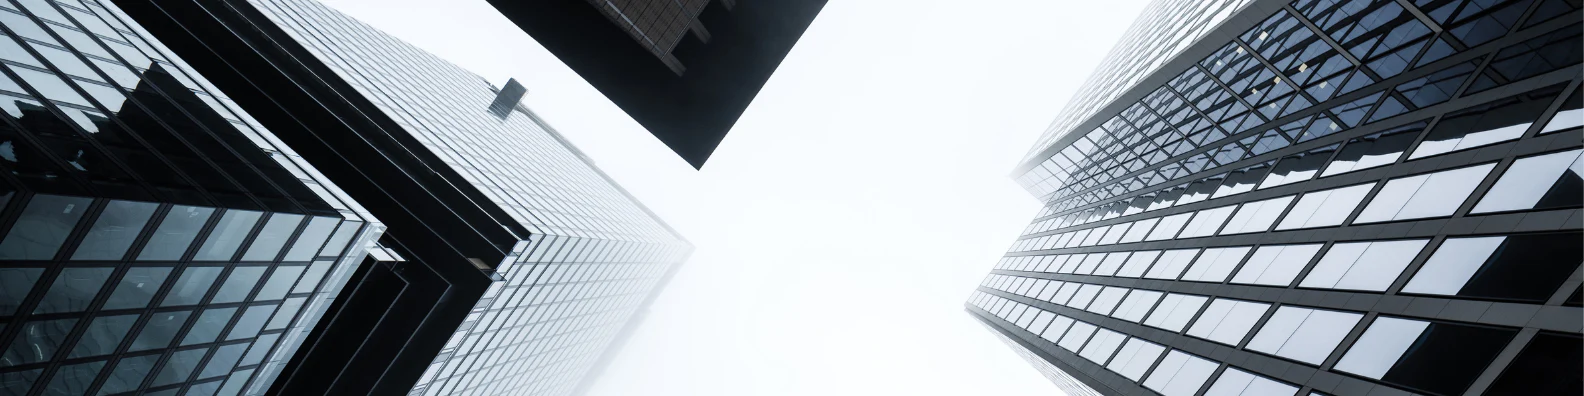
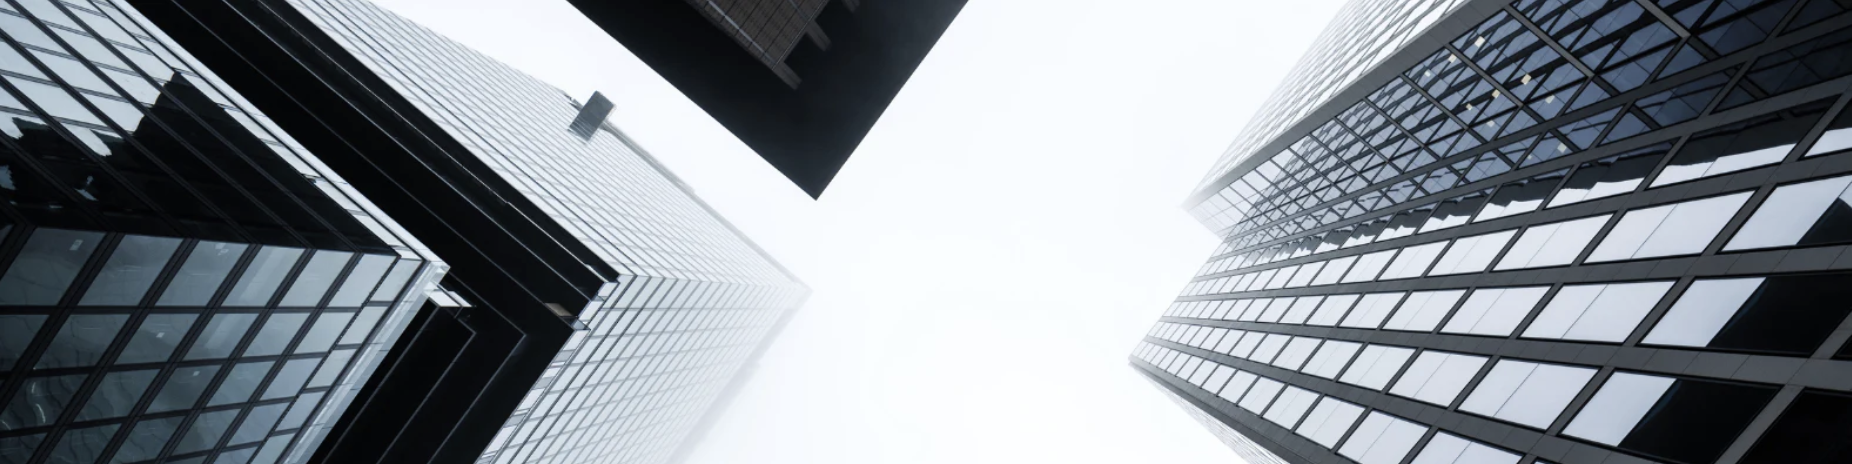
Changes

diff --git a/src/components/sections/Hero.tsx b/src/components/sections/Hero.tsx
@@ -1,7 +1,7 @@
 import { Button } from '@/components/ui/button';
 import { Link } from 'react-router-dom';
 import { ArrowRight } from 'lucide-react';
-import heroBanner from '@/assets/hero-banner.jpg';
+import heroBanner from '@/assets/hero-banner.png';
 
 const Hero = () => {
   return (
